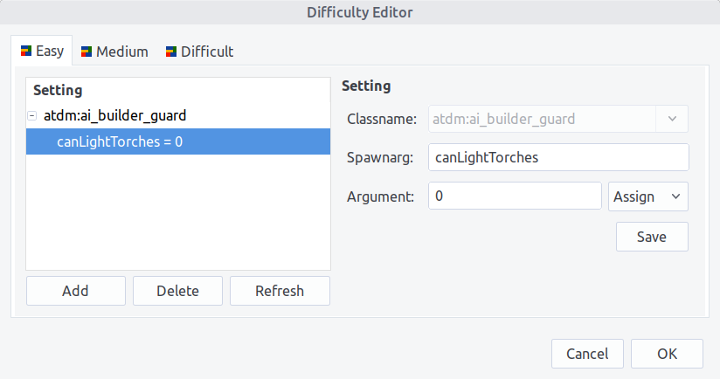
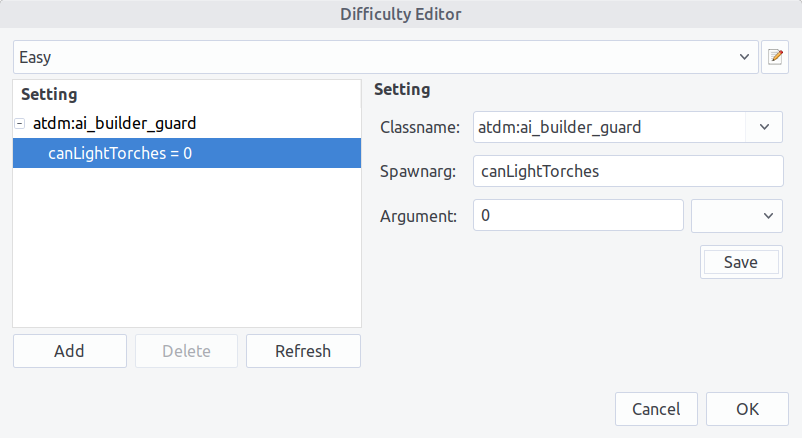
Update documentation to cover editing difficulty names
Also update the screenshot of the Difficulty Editor to reflect the latest
layout changes (including the switch from wxNotebook to wxChoicebook).

diff --git a/doc/manual.html b/doc/manual.html
@@ -3016,11 +3016,12 @@ removing a particular enemy type&#8217;s ability to relight torches.</p>
 <div class="title">Figure 12. The Difficulty editor, showing a modified property on a particular entity class</div>
 </div>
 <div class="paragraph">
-<p>The Difficulty editor consists of a tabbed widget, where each tab contains the
-settings which correspond to a particular difficulty level. The difficulty names
-are shown for the current map — normally these will be the default values of
-"Easy", "Medium" and "Difficult", but if the current map has customised
-difficulty names DarkRadiant will adjust the tab names accordingly.</p>
+<p>The Difficulty editor shows the names of the available difficulty levels in a
+dropdown widget, beneath which are the settings for the selected difficulty
+level. The difficulty names are customisable on a per-map basis — normally these
+will be the default values of "Easy", "Medium" and "Difficult", but if the
+current map has customised difficulty names DarkRadiant will adjust the tab
+names accordingly.</p>
 </div>
 <div class="paragraph">
 <p>On the left is a tree view showing all of the property overrides for the current
@@ -3049,6 +3050,13 @@ button to remove a particular setting. You can only remove individual
 assignments from the list; to remove all of the assignments for a particular
 entity class, you must select and delete each one individually.</p>
 </dd>
+<dt class="hdlist1"><strong>Editing the difficulty name</strong></dt>
+<dd>
+<p>To edit the name of the current difficulty
+level, click the edit button to the right of the dropdown, and enter a new name
+in the text box. The modified name will be written into a property on the
+<code>worldspawn</code> entity and reflected both in game and in DarkRadiant.</p>
+</dd>
 </dl>
 </div>
 <div class="admonitionblock tip">
@@ -3060,7 +3068,7 @@ entity class, you must select and delete each one individually.</p>
 <td class="content">
 For details of more advanced difficulty-dependent changes, such as
 modifying the behaviour of a <strong>single</strong> entity (rather than an entire entity
-class), or changing the names of difficulty settings, consult the Dark Mod Wiki.
+class), consult the Dark Mod Wiki.
 </td>
 </tr>
 </table>
@@ -3723,7 +3731,7 @@ these into one or more MTR files which are listed as hidden.
 </div>
 <div id="footer">
 <div id="footer-text">
-Last updated 2020-03-10 21:18:41 GMT
+Last updated 2020-04-07 20:18:29 BST
 </div>
 </div>
 </body>
